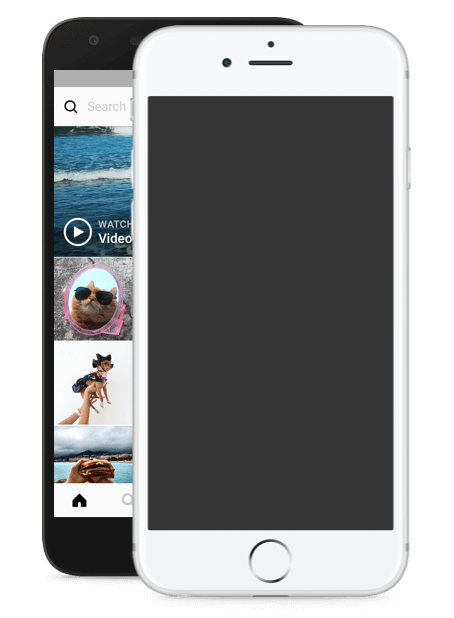
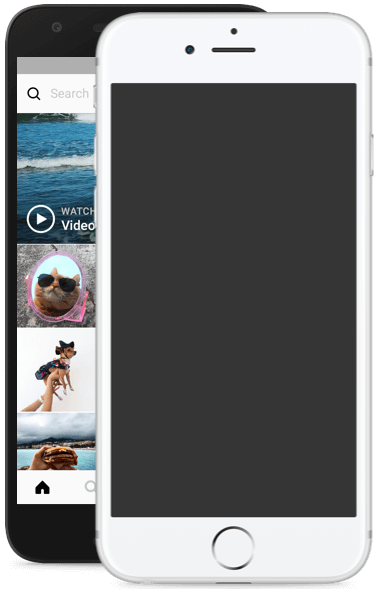
slideshow inserido junto da figura do smartphone

diff --git a/index.html b/index.html
@@ -17,6 +17,7 @@
       <img class="slide__item" src="./img/insta03.jpg" alt="Imagem ilustrativa de um chat com fotos de gatos.">
       <img class="slide__item" src="./img/insta04.jpg" alt="Imagem ilustrativa com a foto de uma flor.">
       <img class="slide__item" src="./img/insta05.jpg" alt="Imagem ilustrativa da página inicial de um usuário.">
+      <img src="./img/smartphone.png" alt="Imagem de um iPhone.">
     </section>
   </main>
   <footer>

diff --git a/style/estilo.css b/style/estilo.css
@@ -3,8 +3,8 @@ body{
 }
 
 .slide{
-  width: 240px;
-  height: 427px;
+  width: 375px;
+  height: 600px;
   border: solid 1px blue;
   position:relative;
   overflow: hidden;
@@ -13,8 +13,9 @@ body{
 
 .slide__item{
   position: absolute;
+  padding-left: 114px;
+  padding-top: 87px;
   opacity: 0;
-  background-color: #363535;
 
   animation-name: slideshow;
   animation-duration: 25s;
